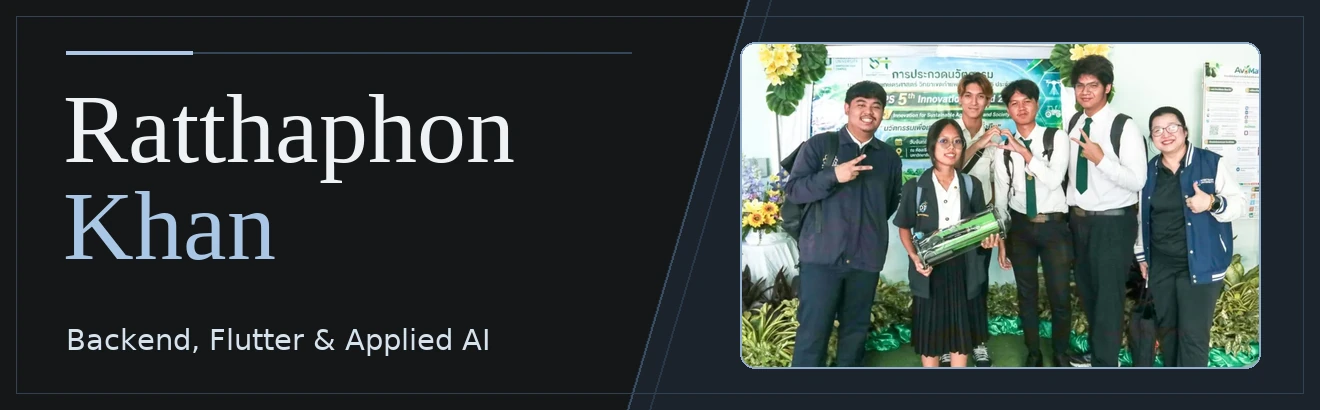
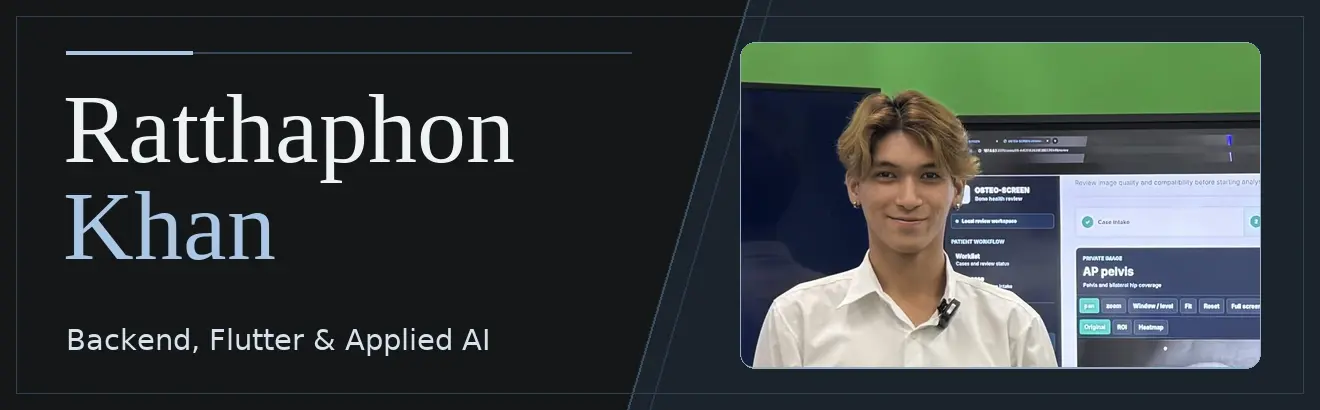
Place speaking portrait in the README cover

diff --git a/README.md b/README.md
@@ -1,4 +1,4 @@
-<img src="./assets/profile-cover.webp" width="100%" alt="Ratthaphon Khan, software developer focused on backend, Flutter, and applied AI. The Matchanu team holds its prototype at Kasetsart University.">
+<img src="./assets/profile-cover.webp" width="100%" alt="Ratthaphon Khan, software developer focused on backend, Flutter, and applied AI. Ratthaphon presenting in front of a software demo.">
 
 **I build backend services and Flutter apps, often for projects that start with a camera or sensor.**
 
